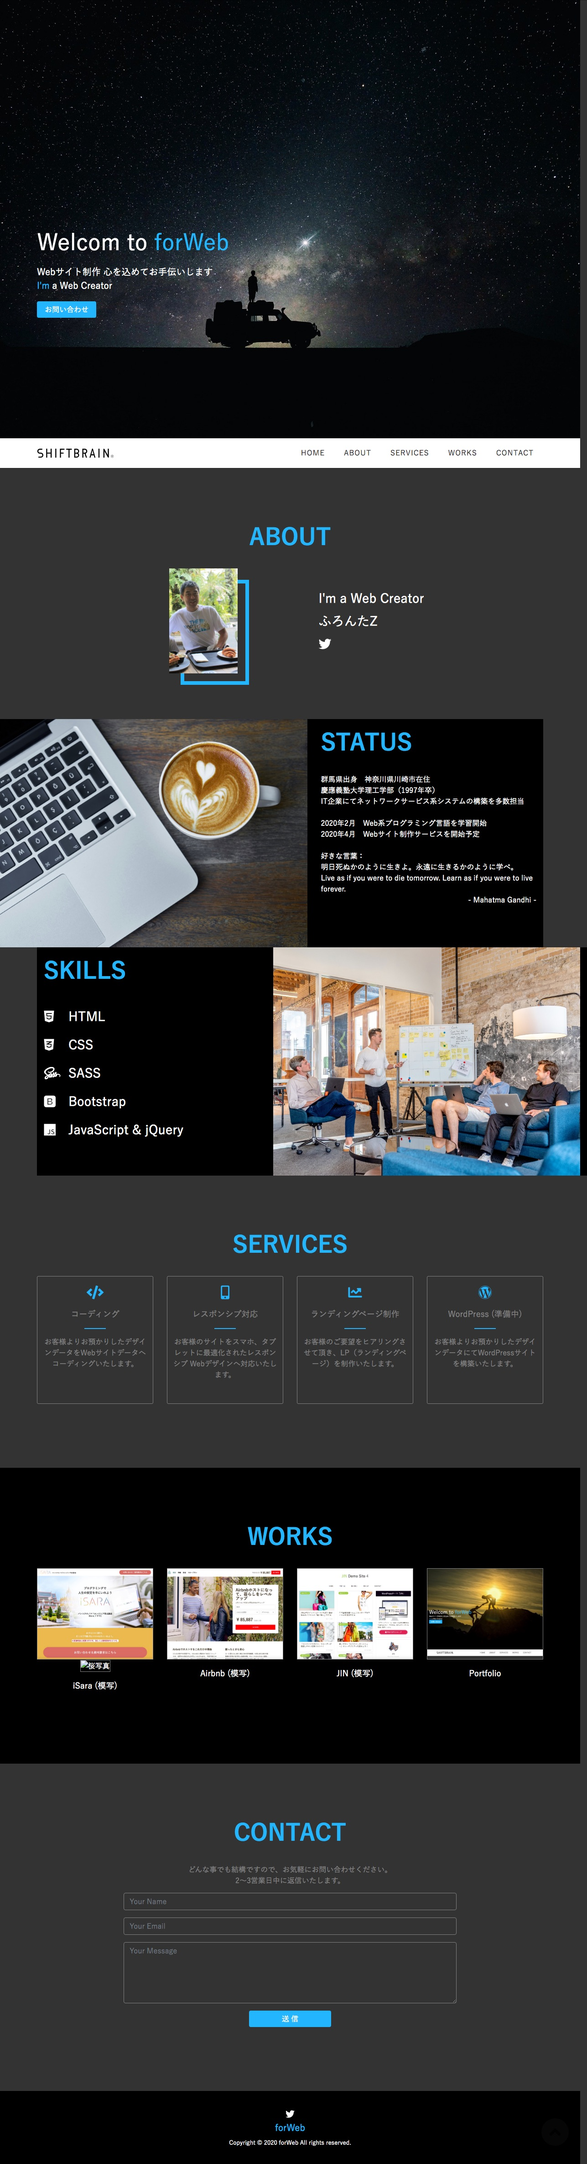
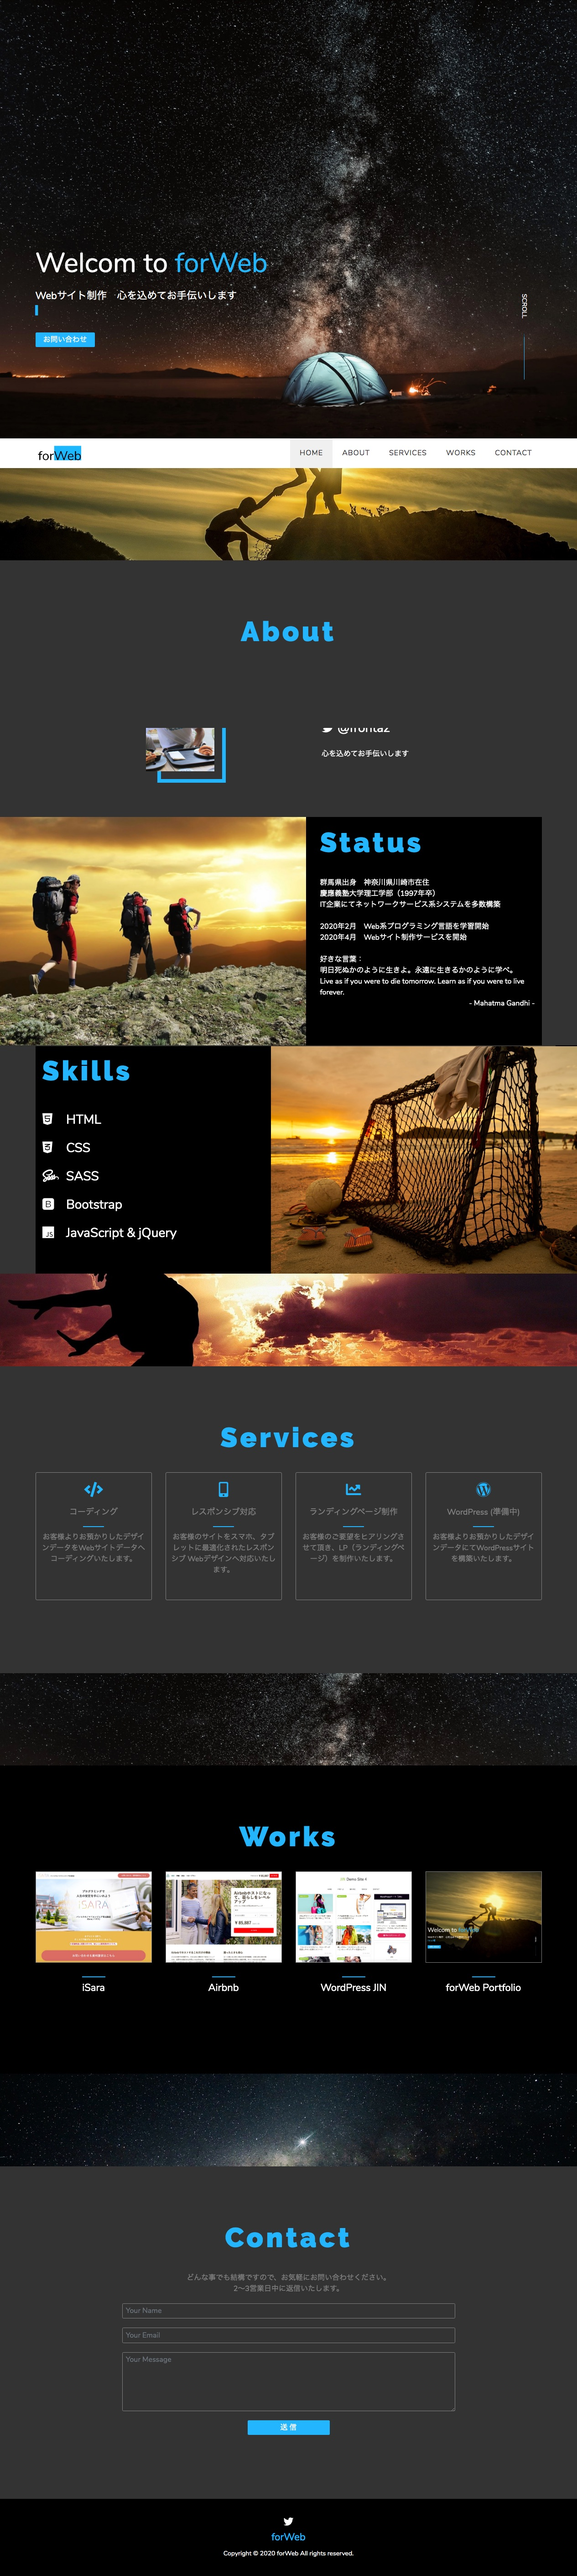
Add files via upload

diff --git a/js/main.js b/js/main.js
@@ -78,15 +78,20 @@ $(function() {
   
       // スクロール時に処理を実行する
       $window.scroll(function () {
+
         if ($window.scrollTop() > threshold) {
           $headerCloneContainer.addClass('visible');
+
         } else {
           $headerCloneContainer.removeClass('visible');
+
         }
+
       });
   
       // スクロールイベントを発生させ、初期位置を決定
       $window.trigger('scroll');
+
     });
 
   }
@@ -110,16 +115,23 @@ $(function() {
   var overFlg; // マウスカーソルがメニュー上 or メニュー外
 
   $('.NavMenu, .Toggle').hover(function() {
+
     overFlg = true;
+
   }, function() {
+
     overFlg = false;
+
   });
 
   // メニュー外をクリックしたらメニューを閉じる
   $('body').click(function() {
+
     if (overFlg == false) {
       $('.NavMenu, .Toggle').removeClass('active');
+
     }
+
   });
 
   // Smooth scroll --------------------------------------------------------------------
@@ -135,15 +147,20 @@ $(function() {
     $('body,html').animate({
       scrollTop: position
     }, 500);
+
     return false;
+
   });
 
   // スクロールボタン スクロールでトップへ戻る
   $('#page-top').click(function() {
+
     $('body,html').animate({
       scrollTop: 0
     }, 500);
+
     return false;
+
   });
   
   // Scroll effect --------------------------------------------------------------------
@@ -215,6 +232,7 @@ $(function() {
       } else {
         $(this).css('opacity','0');
         $(this).css('transform','translateY(30px)');
+
       }
       
     });
@@ -230,6 +248,7 @@ $(function() {
         
       } else {
         $(this).removeClass('show');
+
       }
       
     });
@@ -254,7 +273,7 @@ $(function() {
   lightbox.option({
     'fitImagesInViewport': false,  // trueの場合、画面内に収まるように画像サイズを変更
     'showImageNumberLabel': false, // falseの場合、キャプション下のテキスト非表示
-    'maxWidth': 400,               // 設定した場合、画像の幅をピクセル単位で設定
+    'maxWidth': 376,               // 設定した場合、画像の幅をピクセル単位で設定
     'wrapAround': true             // trueの場合、最後の画像から最初の画像に戻れる
   });
   

diff --git a/index.html b/index.html
@@ -126,7 +126,7 @@
 						<img src="./images/about-1.jpg" alt="agout-1" width="960">
 					</div>
 					<div class="col-lg-5 status-text">
-						<h2 class="slidein-up">Status</h2>
+						<h2 class="slidein-right">Status</h2>
 						<p>群馬県出身　神奈川県川崎市在住</p>
 						<p>慶應義塾大学理工学部（1997年卒）</p>
 						<p>IT企業にてネットワークサービス系システムを多数構築</p><br>
@@ -139,7 +139,7 @@
 				</div>
 				<div class="row section-about-2 bgc-black slidein-right">
 					<div class="col-lg-5 skills-text">
-						<h2 class="slidein-up">Skills</h2>
+						<h2 class="slidein-left">Skills</h2>
 						<table>
 							<tbody>
 								<tr>
@@ -231,7 +231,7 @@
 							</a>
 						</div>
 						<hr>
-						<h3><a href="https://isara.life/" target="_blank">iSara</a></h3>
+						<h3><a href="https://isara.life/" target="_blank">iSara 模写</a></h3>
 					</div>
 					<div class="col-sm-6 col-lg-3 fadein">
 						<div class="section-works">
@@ -240,7 +240,7 @@
 							</a>
 						</div>
 						<hr>
-						<h3><a href="https://www.airbnb.jp/host/homes" target="_blank">Airbnb</a></h3>
+						<h3><a href="https://www.airbnb.jp/host/homes" target="_blank">Airbnb 模写</a></h3>
 					</div>
 					<div class="col-sm-6 col-lg-3 fadein">
 						<div class="section-works">
@@ -249,7 +249,7 @@
 							</a>
 						</div>
 						<hr>
-						<h3><a href="https://jin-demo.jp/demo-4/" target="_blank">WordPress JIN</a></h3>
+						<h3><a href="https://jin-demo.jp/demo-4/" target="_blank">WordPress JIN 模写</a></h3>
 					</div>
 					<div class="col-sm-6 col-lg-3 fadein">
 						<div class="section-works">

diff --git a/css/style.css b/css/style.css
@@ -32,7 +32,16 @@ a:hover {
   color: #23B6FE;
   text-decoration: none;
 }
+i {
+  transition: 0.5s;
+  -webkit-transition: 0.5s;
+}
 i:hover {
+  color: #23B6FE;
+  transform: rotate(360deg);
+  -webkit-transform: rotate(360deg);
+}
+td:hover {
   color: #23B6FE;
 }
 img {
@@ -471,7 +480,7 @@ small {
   width: 60px;
 }
 
-/* モバイル版 --------------------------------------------------------------------　*/
+/* タブレット --------------------------------------------------------------------　*/
 @media (max-width: 992px) {
   
   .parallax-bg {
@@ -507,12 +516,12 @@ small {
   
 }
 
+/* スマホ --------------------------------------------------------------------　*/
 @media (max-width: 576px) {
   
   html {
     font-size: 55%;
   }
-  
   .site-logo,
   .clearfix:before,
   .clearfix:after {
